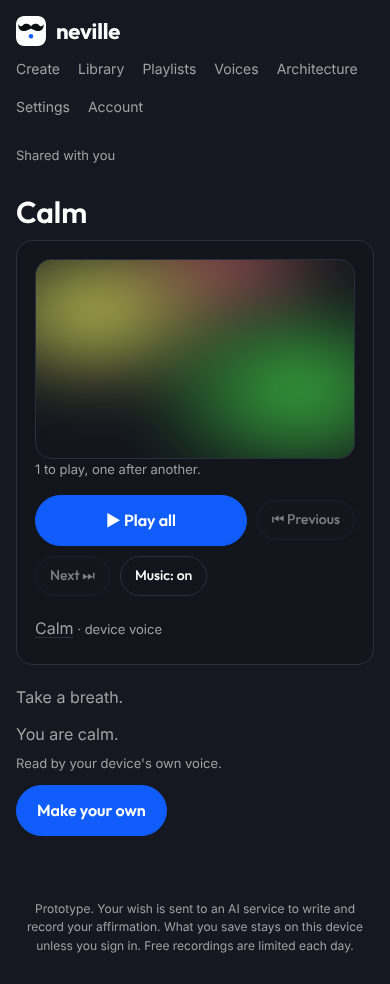
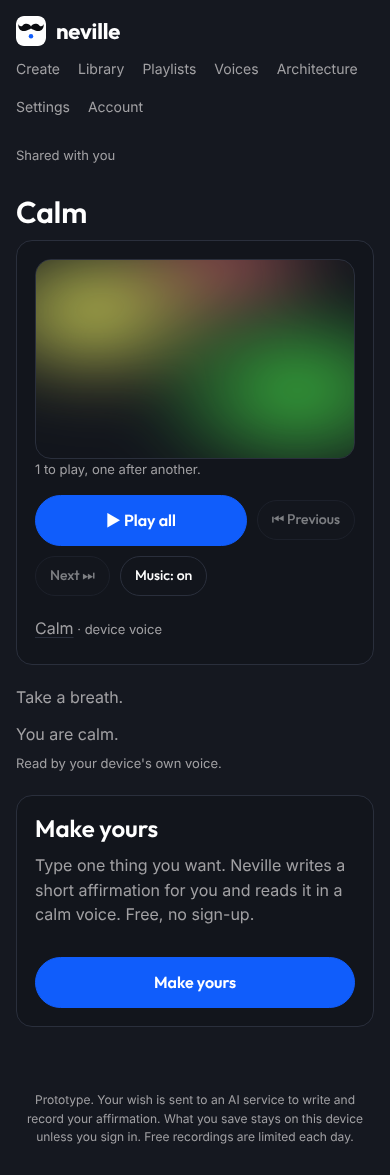
Share page: a clear Make yours card for recipients
After playing a shared manifestation, a signed-out visitor sees a Make
yours card that leads to the create page (and the first-run
walkthrough once #21 is on main).

Claude-Session: https://claude.ai/code/session_01SSvY6Dqvk6qrBTHybTRDzq

diff --git a/app/s/[id]/page.tsx b/app/s/[id]/page.tsx
@@ -53,9 +53,16 @@ export default async function SharedPage({ params }: { params: Promise<{ id: str
         ))}
       </ol>
       <p className="small muted">Read by your device&apos;s own voice.</p>
-      <Link className="btn primary" href="/">
-        Make your own
-      </Link>
+      <div className="card cta">
+        <h2>Make yours</h2>
+        <p className="muted">
+          Type one thing you want. Neville writes a short affirmation for you and reads it in a calm voice. Free, no
+          sign-up.
+        </p>
+        <Link className="btn primary block" href="/">
+          Make yours
+        </Link>
+      </div>
     </>
   );
 }

diff --git a/app/globals.css b/app/globals.css
@@ -336,3 +336,5 @@ pre code { background: none; padding: 0; }
 
 .share { margin-top: 18px; }
 .share h3 { margin-top: 0; }
+.cta { margin-top: 22px; }
+.cta h2 { margin-top: 0; }
